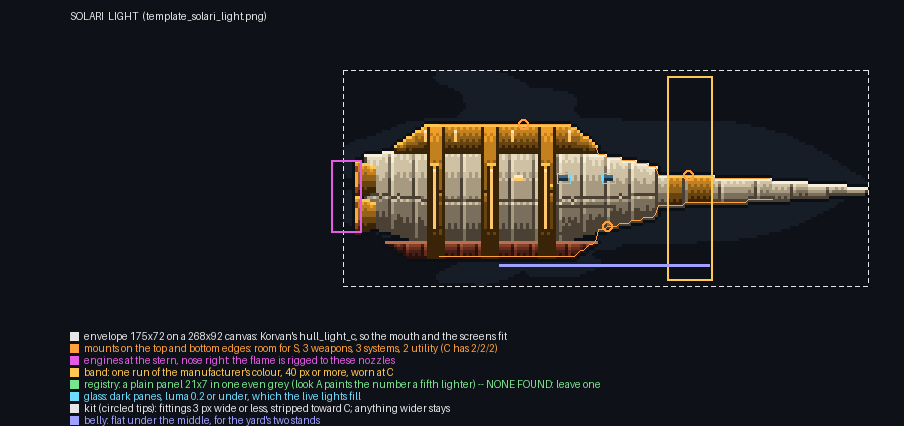
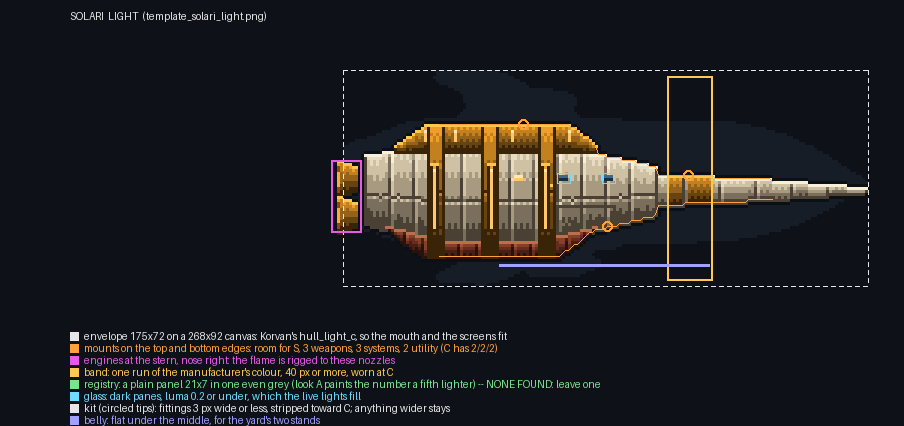
Hull templates: Solari's keel hangs from the belly; the engine bells go back on the stern (Jon)
Claude-Session: https://claude.ai/code/session_01FQemMvme1wfvjCSMpMkDgS

Changed region(s): [[0.3717, 0.3662, 0.4956, 0.6103], [0.5885, 0.5188, 0.6814, 0.6103]]

diff --git a/tkg/art/tools/hull_template.py b/tkg/art/tools/hull_template.py
@@ -131,6 +131,27 @@ def P(shape, mat='steel', **kw):
     return d
 
 
+def keel(hull, x0, x1, low, **kw):
+    """A keel that hangs from the belly itself: its top follows the hull's
+    bottom edge (a pixel inside it, so the two join) and its bottom is flat at
+    `low`, the ends swept up into the hull (Jon, Oct 15: "the bottom part of
+    the ship is not connected to the bottom of the rounded hull")."""
+    def belly(x):
+        for (a, _, ba), (b, _, bb) in zip(hull, hull[1:]):
+            if a <= x <= b:
+                return ba + (bb - ba) * (x - a) / max(1e-6, b - a)
+        return hull[-1][2] if x > hull[-1][0] else hull[0][2]
+    n = 12
+    pts = []
+    for i in range(n + 1):
+        x = x0 + (x1 - x0) * i / n
+        top = belly(x) - .02
+        end = min(i, n - i) / 2.0          # the last two steps sweep up
+        bot = low if end >= 1 else top + (low - top) * end
+        pts.append((x, top, max(top + .005, bot)))
+    return P(('prof', pts), 'brick', **kw)
+
+
 def rings(x0, x1, top, bot, n, low=None):
     """Solari's reactor rings: n brass hoops clamped round the hull between x0
     and x1, standing proud of it, a hot seam glowing down each (Jon, Oct 15:
@@ -160,22 +181,22 @@ SPECS = {
      P(('prof', [(.44, .47, .65), (.8, .51, .61), (1, .55, .57)]), 'tile', seams=12, rivets=False, band=(.62, .70)),
      P(('prof', [(.04, .40, .72), (.18, .34, .82), (.38, .35, .82), (.50, .40, .74), (.60, .45, .68)]), 'tile', seams=8, rivets=False, belt=.55,
        ports=[(.32, .45, .9, 3, 3, 2, 1)], hatch=[(.6, .6, .85, .85)]),
-     P(('poly', [(.08, .80), (.48, .80), (.44, .87), (.12, .87)]), 'brick', seams=6)] + crest(.12, .44, .34, 6) + rings(.12, .44, .34, .84, 3, low=.87),
+     keel([(.04, .40, .72), (.18, .34, .82), (.38, .35, .82), (.50, .40, .74), (.60, .45, .68)], .08, .48, .87, seams=6)] + crest(.12, .44, .34, 6) + rings(.12, .44, .34, .84, 3, low=.87),
    'kit': [],
-   'noz': [(.50, .12), (.68, .12)], 'noz_mat': 'acc', 'noz_in': 6},
+   'noz': [(.50, .12), (.68, .12)], 'noz_mat': 'acc'},
   'medium': {'parts': [
      P(('prof', [(0, .40, .70), (.1, .34, .78), (.5, .34, .82), (.75, .38, .78), (.9, .44, .70), (1, .50, .64)]), 'tile', seams=10,
        rivets=False, belt=.48, ports=[(.3, .62, .8, 4, 3, 2, 2)], band=(.68, .74)),
-     P(('poly', [(.08, .80), (.60, .80), (.56, .87), (.12, .87)]), 'brick', seams=8)] + crest(.12, .56, .34, 9) + rings(.12, .56, .34, .82, 3, low=.87),
+     keel([(0, .40, .70), (.1, .34, .78), (.5, .34, .82), (.75, .38, .78), (.9, .44, .70), (1, .50, .64)], .08, .60, .87, seams=8)] + crest(.12, .56, .34, 9) + rings(.12, .56, .34, .82, 3, low=.87),
    'kit': [],
-   'noz': [(.48, .12), (.64, .12)], 'noz_mat': 'acc', 'noz_in': 6},
+   'noz': [(.48, .12), (.64, .12)], 'noz_mat': 'acc'},
   'heavy': {'parts': [
      P(('prof', [(0, .40, .74), (.08, .34, .84), (.5, .34, .92), (.78, .38, .86), (.9, .44, .76), (1, .56, .66)]), 'tile', seams=12, rivets=False,
        belt=.5, ports=[(.28, .66, .84, 4, 3, 2, 2)], band=(.76, .82), hatch=[(.06, .6, .14, .8)]),
-     P(('poly', [(.22, .90), (.66, .90), (.62, .96), (.26, .96)]), 'brick', seams=8),
+     keel([(0, .40, .74), (.08, .34, .84), (.5, .34, .92), (.78, .38, .86), (.9, .44, .76), (1, .56, .66)], .22, .66, .96, seams=8),
      P(('poly', [(.92, .44), (1, .56), (1, .66), (.92, .70)]), 'acc')] + crest(.26, .62, .34, 9) + rings(.26, .62, .34, .92, 4, low=.96),
    'kit': [],
-   'noz': [(.50, .14), (.72, .14)], 'noz_mat': 'acc', 'noz_in': 6},
+   'noz': [(.50, .14), (.72, .14)], 'noz_mat': 'acc'},
  },
  'probate': {
   'light': {'parts': [
